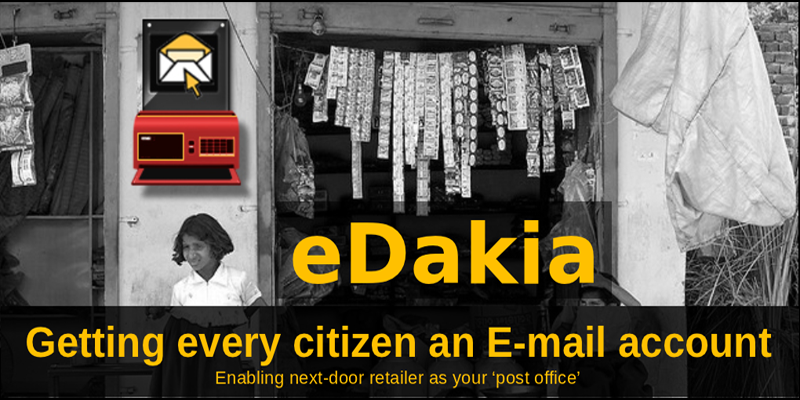
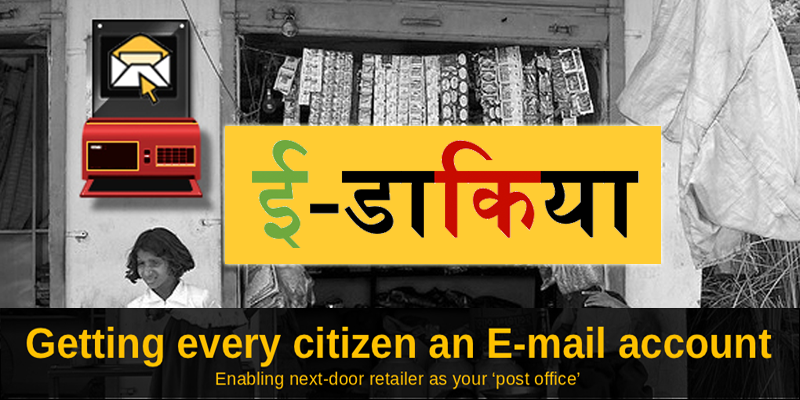
changed home screen and added feedback button

diff --git a/app/assets/stylesheets/scaffolds.css.scss b/app/assets/stylesheets/scaffolds.css.scss
@@ -52,3 +52,16 @@ div {
   ul li {
     font-size: 12px;
     list-style: square; } }
+    
+    
+#feedback_bt a {
+width: 37px;
+height: 109px;
+background: url('/assets/feedback_bt.png') no-repeat top left;
+position: fixed;
+right: 0;
+top: 50%;
+cursor: pointer;
+z-index: 9999;
+text-indent: -1000px;
+}

diff --git a/app/assets/stylesheets/bootstrap_and_overrides.css.less b/app/assets/stylesheets/bootstrap_and_overrides.css.less
@@ -62,5 +62,13 @@ a {
   color: #ffbe41;
     text-decoration: underline;
   }
- 
+}
+
+.navbar .nav > li {
+  a {
+    color: #ffbe41;}
+  a:hover {
+    color: #ffbe41;
+    text-decoration: underline;
+    }
 }
